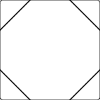
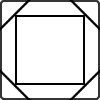
地图缩放按钮完成

Changed region(s): [[0.0, 0.0, 1.0, 1.0]]

diff --git a/js/Main.js b/js/Main.js
@@ -95,7 +95,7 @@ export default class Main{
 
     }//构建函数//
     start(){
-        //一，加载默认数据，如果有本地存储数据，更新为本地存储数据。
+        //1，加载默认数据，如果有本地存储数据，更新为本地存储数据。
         //尝试调用本地存储的配置数据：
         jsd.bj=dqbj
         if(typeof(Storage)!=="undefined"){
@@ -106,21 +106,27 @@ export default class Main{
         // canvas.style="overflow: hidden;position: absolute;"
         document.getElementById('zhudiv').appendChild(canvas)
         // console.log("canvas x,y:",canvas.width,canvas.height);
-        
         jsd.tj=dqtj
             // console.log(tj);
             if(typeof(Storage)!=="undefined"){
                 localStorage.setItem('sjx',JSON.stringify(jsd.tj));    //json转为str再保存
                 // jsd.tj=JSON.parse(localStorage.getItem('sjx'));   //读取再str转为json
             }
-        //1,地图
+        //一些数据集成入jsd中
+        jsd.size=lssize
+        //2,根据布局数据，生成图文线三区域背景图片对象。
         let mapcsxl=[map.sg[1],map.sg[1],map.cs]    //临时，测试地图组。
         jsd.map=mapcsxl[1]    //设定当前地图
         jsd.tgb=hhimgmapb(jsd.map)     //输入当前所用地图信息（包括定位点等。）返回图片xy与高斯xy/地图xy的比。btg:txy/gxy:[tx,gx,ty,gy]。
         let bg0 = sctp(jsd.map.img) //生成背景图片obj//地图
         let bg1 = sctp(sj.bgimg[0]) //背景图片//文本
         let bg2 = sctp(sj.bgimg[1]) //背景图片//时间线
-        jsd.bg=[bg0,bg1,bg2]
+        jsd.bg=[bg0,bg1,bg2]    //图文线三区域背景图片。
+        //3,根据布局数据，生成按钮图片对象
+        //生成地图缩放工具
+        jsd.mapbtn=sctp(jsd.bj.btns.map.img)
+        // jsd.mapbtn.addEventListener('click',(e)=>{console.log('地图缩放工具');})
+        //4，绑定鼠标事件
         this.bindsbevent=this.sbevent.bind(this)    //绑定this.
         // console.log(jsd.bg);
         window.onload=()=>{console.log('window.onload');this.update();}
@@ -129,6 +135,7 @@ export default class Main{
             canvas.width = lssize[0]
             canvas.height = lssize[1]
             dqjmcc=hhsjmcc(dqbj[dqbj.ms],lssize)    //当前界面尺寸
+            jsd.siz=lssize
             this.update();
         }//临时用用，监控浏览器尺寸改变。//
         // jsd.bg[0].onload=()=>{console.log('jsd.bg[0].onload');}
@@ -143,8 +150,56 @@ sbevent(e){
     let cc=jsd.cc
     let c=jsd.c
     let ms=jsd.map.img.siz
+    
     //1区：
     if(x>=cc[0][0]&&y>=cc[0][1]&&x<cc[0][0]+cc[0][2]&&y<cc[0][1]+cc[0][3]){
+        //地图缩放按钮：
+    if(inarea(x,y,jsd.bj.btns.map.p.s)){
+        if(e.type==="mousedown"){
+            let s=jsd.bj.btns.map.p.s
+            // console.log(x,y,s);
+            let h=s[3]
+            let dy=y-s[1]
+            let bmax=Math.min(ms[0]/cc[0][2],ms[1]/cc[0][3])
+            let bmin=0.1*bmax
+            let b0=c[2]/c[6]
+            // console.log('bmax:',bmax);
+            //以当前关注时空节点的视界x,y为中心点缩放：//临时用视界中心点
+            let jx=0.5*cc[0][2]
+            let jy=0.5*cc[0][3]
+            let db=0.1*b0
+            let b=1
+            if(dy<=0.25*h){
+                //放大
+                b=b0-db
+            }
+            // if(dy>0.25*h&&dy<0.5*h){
+            //     //原图
+            //     b=1
+            // }
+            if(dy>0.5*h&&dy<0.75*h){
+                //缩小
+                b=b0+db
+            }
+            if(dy>=0.75*h){
+                //视界
+                b=bmax
+            }
+            if(b>bmax){b=bmax}
+            if(b<bmin){b=bmin}
+            c[0]=c[0]+jx*(b0-b)
+            c[1]=c[1]+jy*(b0-b)
+            c[2]=c[6]*b
+            c[3]=c[7]*b
+            if(c[0]<0){c[0]=0;}
+            if(c[0]+c[2]>ms[0]){c[0]=ms[0]-c[2];}
+            if(c[1]<0){c[1]=0;}
+            if(c[1]+c[3]>ms[1]){c[1]=ms[1]-c[3];}
+            console.log(b,c[0],c[1]);
+            jsd.c=c
+            this.render()
+        }
+    }else{
         //鼠标拖动地图,
         if(e.type==="mousedown"){
             jsd.mapisDragging = true;
@@ -172,8 +227,8 @@ sbevent(e){
                     if(c[1]+c[3]>ms[1]){c[1]=ms[1]-c[3]}
                     jsd.c=c
                     this.render()
-                    console.log(ms);
-                    console.log(jsd.c);
+                    // console.log(ms);
+                    // console.log(jsd.c);
                 // }
             }
         }
@@ -204,6 +259,7 @@ sbevent(e){
         }
         //双击地图自动聚焦目标地点（为地图中心或尽量靠近中心）
         if(e.type==='dblclick'){
+            console.log('db');
             //使目标点的屏幕x,y为视界的一半：
             let px=0.5*c[6]
             let py=0.5*c[7]
@@ -223,6 +279,7 @@ sbevent(e){
             jsd.c=c
             this.render()
         }
+    }
 
     }//1区//
     // console.log(this);
@@ -230,15 +287,15 @@ sbevent(e){
 }//sbevent//
 /**////三，更新数据。以便render()根据当前数据，刷新/（重新）加载屏幕………………数据与绘图分离…………
 update(){
-    //分区域更新绘图
+    //根据屏幕（三视区）尺寸，生成地图图片相关数据。
     let cc=dqjmcc
     jsd.cc=cc
     // console.log('jsd.vs:',jsd.vs);
     if(jsd.vs[0]>0){
-        //加载图文线：
+        let sc=cc[0]
         //1.1.1等比例缩放图片以匹配显示区域，多余的裁剪。中心定位。
         let c=[0,0,jsd.bg[0].width,jsd.bg[0].height,cc[0][0],cc[0][1],cc[0][2],cc[0][3]]
-        console.log(c);
+        // console.log(c);
         if(c[2]*c[7]>c[3]*c[6]){
             c[0]=0.5*(c[2]-c[3]*c[6]/c[7])
             c[2]=c[3]*c[6]/c[7]
@@ -246,43 +303,26 @@ update(){
             c[1]=0.5*(c[3]-c[2]*c[7]/c[6])
             c[3]=c[2]*c[7]/c[6]}
         jsd.c=c
-        console.log(c);
-        jsd.mapp=cydd.xd    //临时（系列）地理点：{key:[地点名，地理上的经度,纬度]}      
+        // console.log(c);
+        jsd.mapp=cydd.xd    //临时（系列）地理点：{key:[地点名，地理上的经度,纬度]} 
+        //生成地图缩放工具的位置
+        let btn=jsd.bj.btns.map
+        let p=btn.p
+        let s=p.s
+        s[0]=sc[2]*p.l[0]/p.l[1]
+        s[2]=sc[2]*p.w[0]/p.w[1]
+        s[3]=sc[3]*p.h[0]/p.h[1]
+        if(s[3]<4*s[2]){s[3]=4*s[2]}else{s[2]=0.25*s[3]}
+        if(s[3]<p.hm[0]){s[3]=p.hm[0]}
+        if(s[3]>p.hm[1]){s[3]=p.hm[1]}
+        s[2]=0.25*s[3]
+        s[1]=sc[3]*(p.b[1]-p.b[0])/p.b[1]-s[3]
+        console.log(s);
+        p.s=s
     }
-    console.log(jsd);
-    // if(jsd.vs[1]>0){
-    //     //2，文本
-    //     ctx.drawImage(jsd.bg[1],cc[1][0],cc[1][1],cc[1][2],cc[1][3])
-    // }
-    // if(jsd.vs[2]>0){
-    //     //3,时间线
-    //     ctx.drawImage(jsd.bg[2],cc[2][0],cc[2][1],cc[2][2],cc[2][3])
-    //     //显示公元纪年
-    //     let tc=cc[2]   //时间线区域的[x,y,w,h]
-    //     let t=jsd.tj.tim    //[起始（年），时长（年），当前时间（年）]//时长：年月日世纪元会……缩放功能
-    //     let py=Math.floor(tc[2]/t[1])    //py像素每年
-    //     console.log('py:',py,'像素每年');
-    //     for (let i=0;i*py<tc[2];i++){
-    //         //设定年标线长，
-    //         let y=t[0]+i
-    //         let l=Math.floor(0.12*tc[3])
-    //         if (y%5===0){l=l*2}
-    //         if (y%10===0){
-    //             l=l*2
-    //             ctx.font="12px Arial";
-    //             ctx.fillText(y,i*py,tc[1]+l);
-    //         }
-    //         if(y===t[2]){
-    //             l=tc[3]
-    //             ctx.font="12px Arial";
-    //             ctx.fillText(y,i*py,tc[1]+tc[3]);
-    //         }
-    //         ctx.moveTo(i*py,tc[1]);
-    //         ctx.lineTo(i*py,tc[1]+l);
-    //         ctx.stroke();
-    //     //显示干支纪年//待补
-    //     }
-    // }
+    // console.log(jsd);
+    //生成按钮图片xywh数据
+
     this.render()
 }//update()//
 /**/
@@ -294,8 +334,9 @@ render(){
     // console.log(jsd);
     let cc=jsd.cc
     // console.log('jsd.vs:',jsd.vs);
+    //一，加载图文线：
+    //1，图：
     if(jsd.vs[0]>0){
-        //加载图文线：
         //1.1.1等比例缩放图片以匹配显示区域，多余的裁剪。中心定位。
         let c=jsd.c
         ctx.drawImage(jsd.bg[0],c[0],c[1],c[2],c[3],c[4],c[5],c[6],c[7])
@@ -318,14 +359,17 @@ render(){
         ctx.font="12px Arial";
         ctx.fillText(p[0],xmp[0],xmp[1]);
         }
+        //1.3,加载悬浮按钮……地图缩放工具
+        let mbp=jsd.bj.btns.map.p.s
+        ctx.drawImage(jsd.mapbtn,mbp[0],mbp[1],mbp[2],mbp[3])
         //  //
     }
+    //2，文本
     if(jsd.vs[1]>0){
-        //2，文本
         ctx.drawImage(jsd.bg[1],cc[1][0],cc[1][1],cc[1][2],cc[1][3])
     }
+    //3,时间线
     if(jsd.vs[2]>0){
-        //3,时间线
         ctx.drawImage(jsd.bg[2],cc[2][0],cc[2][1],cc[2][2],cc[2][3])
         //显示公元纪年
         let tc=cc[2]   //时间线区域的[x,y,w,h]
@@ -353,8 +397,16 @@ render(){
         //显示干支纪年//待补
         }
     }
+    //二，按钮：
+    //1,图
 }//render()//
 /**/
+}//main//
+//
+function inarea(x,y,s){
+    let re=0
+    if(x>=s[0]&&y>=s[1]&&x<s[0]+s[2]&&y<s[1]+s[3]){re=1}
+    return re
 }
 
 //生成图片对象

diff --git a/js/jmsj.js b/js/jmsj.js
@@ -11,18 +11,10 @@ const 说明={
 }
 const sj={
     bgimg:[{src:'img/wbbj0.jpg',siz:[720,720]},{src:'img/sjx0.jpg',siz:[1280,80]},],
-    wbkys:{    //文本框样式
-        bgse:"#CFE8CC",    //背景色
-        bkse:"#007500",    //边框色
-        bkxs:3,    //边框粗细（像素）
-    },
-    msimg:{    //整数与分数模式图片
-        src:['img/zsms.png','img/fsms.png'],
-    },
 }
 const pst={
     hporsp:0,    //横屏0或竖屏1
-    anniu:[[180,90,0,1190],[180,90,180,1190],[180,90,360,1190],[180,90,540,1190],[180,90,0,1100],[180,90,180,1100],[180,90,360,1100],[180,90,540,1100],[180,90,0,0],[180,90,180,0],[180,90,360,0],[180,90,540,0],],
+    
 }
 //文本格式：
 const wbgs={
@@ -147,7 +139,8 @@ const buju={
         s001   :[[[0,1],[0,1],[1,1],[0,1]],[[0,1],[0,1],[1,1],[0,1]],[[0,1],[0,1],[1,1],[1,1]],],   //竖屏
         s010   :[[[0,1],[0,1],[1,1],[0,1]],[[0,1],[0,1],[1,1],[1,1]],[[0,1],[1,1],[1,1],[0,1]],],   //竖屏
     },
-
+    btns:{
+        map:{vs:1,img:{src:"img/btnmap.jpg",siz:[100,400]},p:{l:[1,50],b:[1,50],w:[1,24],h:[1,8],hm:[80,160],s:[0,0,0,0]}},},
 }
 //地图
 const map={

diff --git a/js/tools.js b/js/tools.js
@@ -43,7 +43,7 @@ function resize(){
     // document.documentElement.style.fontSize=0.1*screenheight+"px";
     //顺便返回界面的宽度和高度
     let re=[screenwidth,screenheight];
-    console.log("re:",re);
+    // console.log("re:",re);
     return re;    
 }
 //输入界面布局{}数据（以及当前界面尺寸信息），返回图文线三界面尺寸：[[图x,y,w,h]，[文x,y,w,h]，[线x,y,w,h]]
